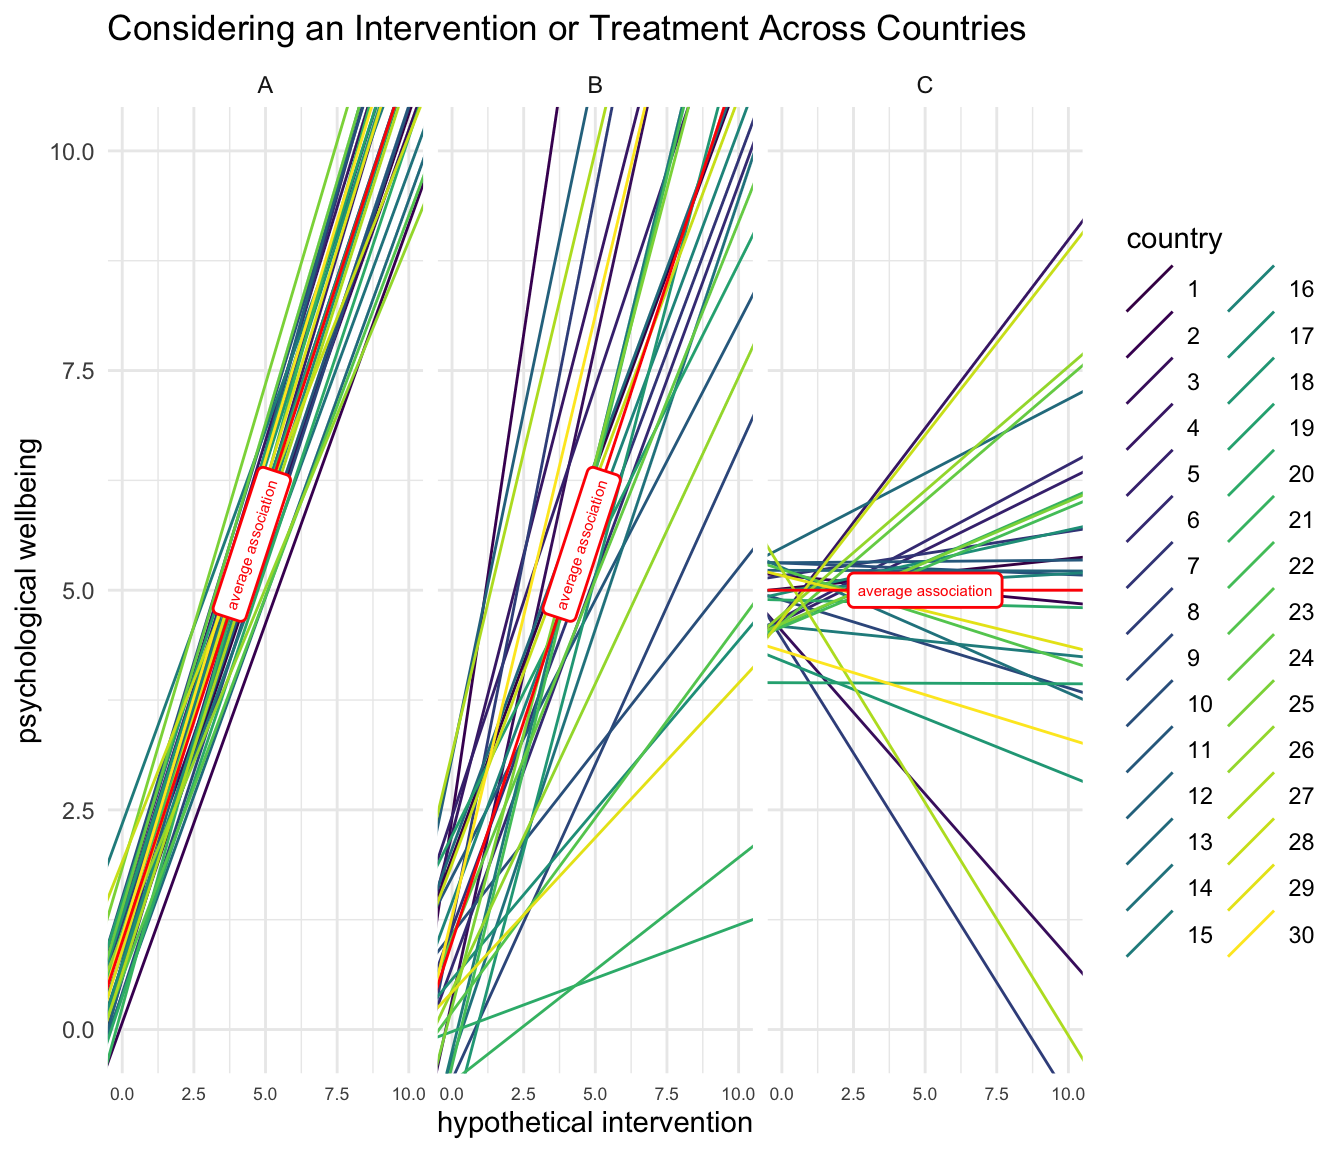
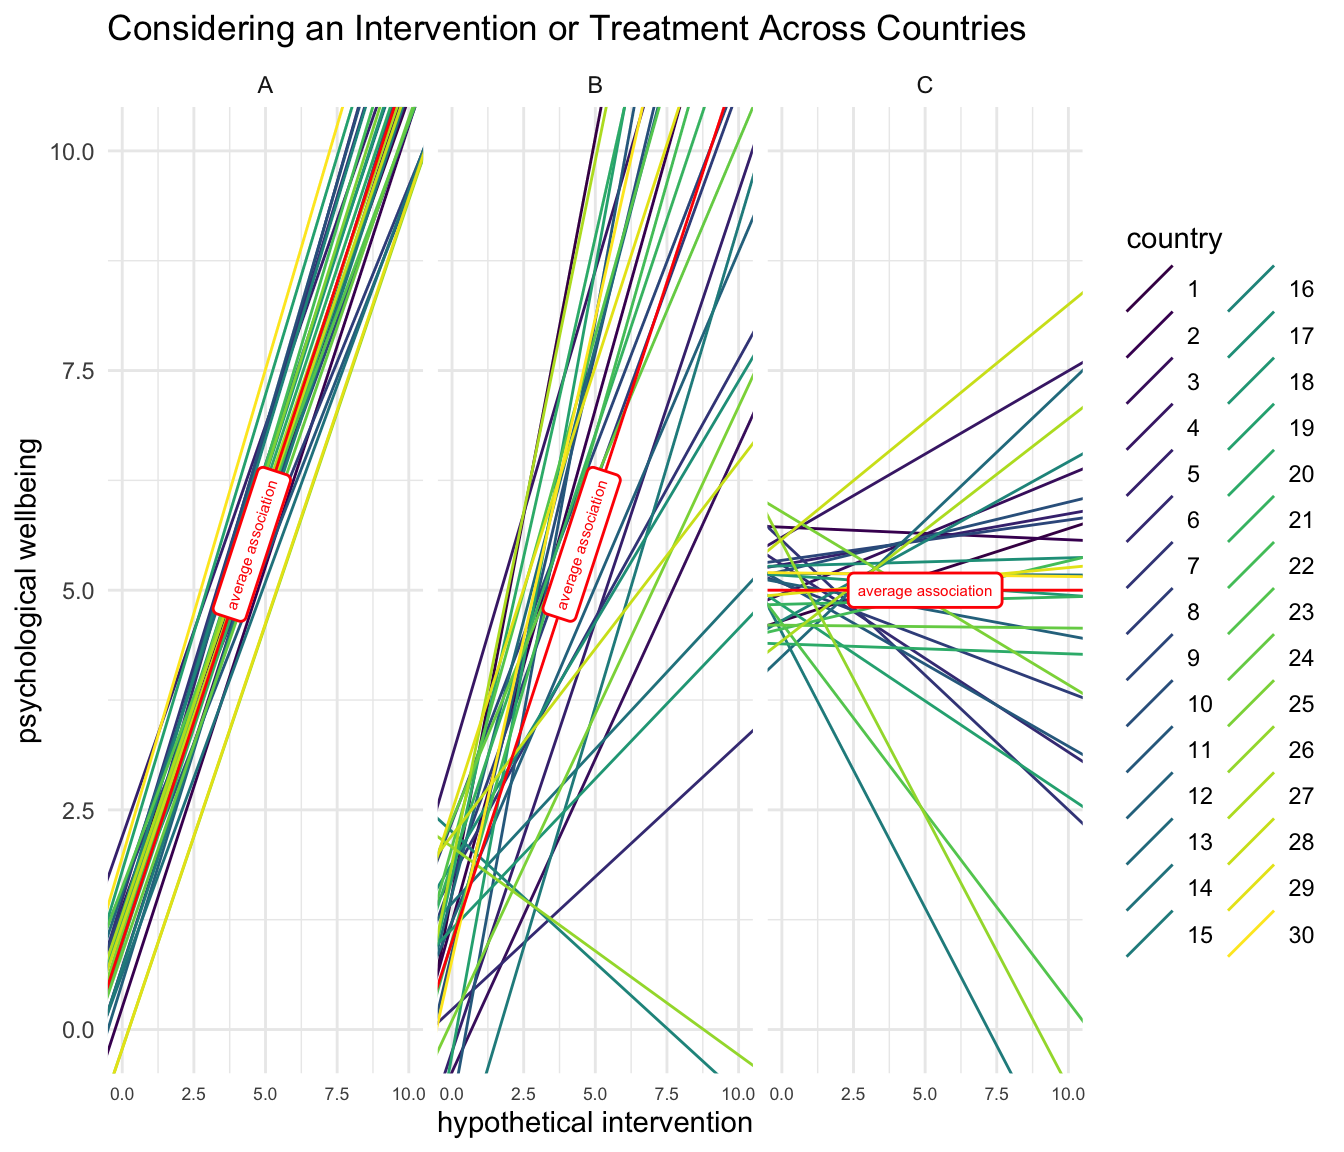
added diversity

Changed region(s): [[0.3125, 0.0938, 0.8125, 0.9375], [0.0625, 0.0938, 0.3125, 0.9375], [0.5, 0.875, 0.5312, 0.9062]]

diff --git a/docs/conceptual-framework.html b/docs/conceptual-framework.html
@@ -364,7 +364,7 @@ div.csl-indent {
   <ul>
   <li><a href="#units-of-analysis-and-processes-at-multiple-levels" id="toc-units-of-analysis-and-processes-at-multiple-levels" class="nav-link active" data-scroll-target="#units-of-analysis-and-processes-at-multiple-levels"><span class="toc-section-number">5.1</span>  Units of Analysis and Processes at Multiple Levels</a></li>
   <li><a href="#sec-levels" id="toc-sec-levels" class="nav-link" data-scroll-target="#sec-levels"><span class="toc-section-number">5.2</span>  Variables at Multiple Levels</a></li>
-  <li><a href="#sec-studyvariation" id="toc-sec-studyvariation" class="nav-link" data-scroll-target="#sec-studyvariation"><span class="toc-section-number">5.3</span>  Multilevel Models As The Study Of Variation</a>
+  <li><a href="#sec-studyvariation" id="toc-sec-studyvariation" class="nav-link" data-scroll-target="#sec-studyvariation"><span class="toc-section-number">5.3</span>  Multilevel Models As The Study Of Variation and Diversity</a>
   <ul class="collapse">
   <li><a href="#a-first-example-a-study-of-parenting-and-child-development" id="toc-a-first-example-a-study-of-parenting-and-child-development" class="nav-link" data-scroll-target="#a-first-example-a-study-of-parenting-and-child-development"><span class="toc-section-number">5.3.1</span>  A First Example: A Study Of Parenting And Child Development</a></li>
   <li><a href="#a-second-example-a-study-of-a-treatment-or-intervention" id="toc-a-second-example-a-study-of-a-treatment-or-intervention" class="nav-link" data-scroll-target="#a-second-example-a-study-of-a-treatment-or-intervention"><span class="toc-section-number">5.3.2</span>  A Second Example: A Study Of A Treatment Or Intervention</a></li>
@@ -469,13 +469,13 @@ div.csl-indent {
 </div>
 </section>
 <section id="sec-studyvariation" class="level2" data-number="5.3">
-<h2 data-number="5.3" class="anchored" data-anchor-id="sec-studyvariation"><span class="header-section-number">5.3</span> Multilevel Models As The Study Of Variation</h2>
+<h2 data-number="5.3" class="anchored" data-anchor-id="sec-studyvariation"><span class="header-section-number">5.3</span> Multilevel Models As The Study Of Variation and Diversity</h2>
 <blockquote class="blockquote">
 <p>“Every being cries out silently to be read differently.”</p>
 </blockquote>
 <p>— Simone Weil, <em>Gravity and Grace</em> as reported in <span class="citation" data-cites="Su2017">Su (<a href="references.html#ref-Su2017" role="doc-biblioref">2017</a>)</span></p>
 <p>Multilevel models are sometimes seen as an analytic technique that <em>controls for</em> the clustering or nesting of individuals inside larger social units such as schools, neighborhoods, or countries. I will describe below how this ability to <em>control for</em> clustering is indeed an important and crucial aspect of multilevel models.</p>
-<p>However, my argument here is that multilevel models are better seen as a method to <em>explore</em> the variation in inherent within nested or clustered data. Again, while these issues are well understood within the statistical literature <span class="citation" data-cites="Raudenbush2002 Singer2003 RabeHesketh2012 Luke2004 Kreft1998">(<a href="references.html#ref-Kreft1998" role="doc-biblioref">Kreft &amp; de Leeuw, 1998</a>; <a href="references.html#ref-Luke2004" role="doc-biblioref">Luke, 2004</a>; <a href="references.html#ref-RabeHesketh2012" role="doc-biblioref">Rabe-Hesketh &amp; Skrondal, 2012</a>; <a href="references.html#ref-Raudenbush2002" role="doc-biblioref">Raudenbush &amp; Bryk, 2002</a>; <a href="references.html#ref-Singer2003" role="doc-biblioref">Singer &amp; Willett, 2003</a>)</span>, they are less often noted in applied research.</p>
+<p>However, my argument here is that multilevel models are better seen as a method to <em>explore</em> the variation and diversity inherent within nested or clustered data. Again, while these issues are well understood within the statistical literature <span class="citation" data-cites="Raudenbush2002 Singer2003 RabeHesketh2012 Luke2004 Kreft1998">(<a href="references.html#ref-Kreft1998" role="doc-biblioref">Kreft &amp; de Leeuw, 1998</a>; <a href="references.html#ref-Luke2004" role="doc-biblioref">Luke, 2004</a>; <a href="references.html#ref-RabeHesketh2012" role="doc-biblioref">Rabe-Hesketh &amp; Skrondal, 2012</a>; <a href="references.html#ref-Raudenbush2002" role="doc-biblioref">Raudenbush &amp; Bryk, 2002</a>; <a href="references.html#ref-Singer2003" role="doc-biblioref">Singer &amp; Willett, 2003</a>)</span>, they are less often noted in applied research.</p>
 <section id="a-first-example-a-study-of-parenting-and-child-development" class="level3" data-number="5.3.1">
 <h3 data-number="5.3.1" class="anchored" data-anchor-id="a-first-example-a-study-of-parenting-and-child-development"><span class="header-section-number">5.3.1</span> A First Example: A Study Of Parenting And Child Development</h3>
 <p>In the graph below, imagine that physical punishment, or some other risk factor, is associated with detrimental mental health outcomes. Each country in the data has its own <em>country specific regression line</em>.</p>
